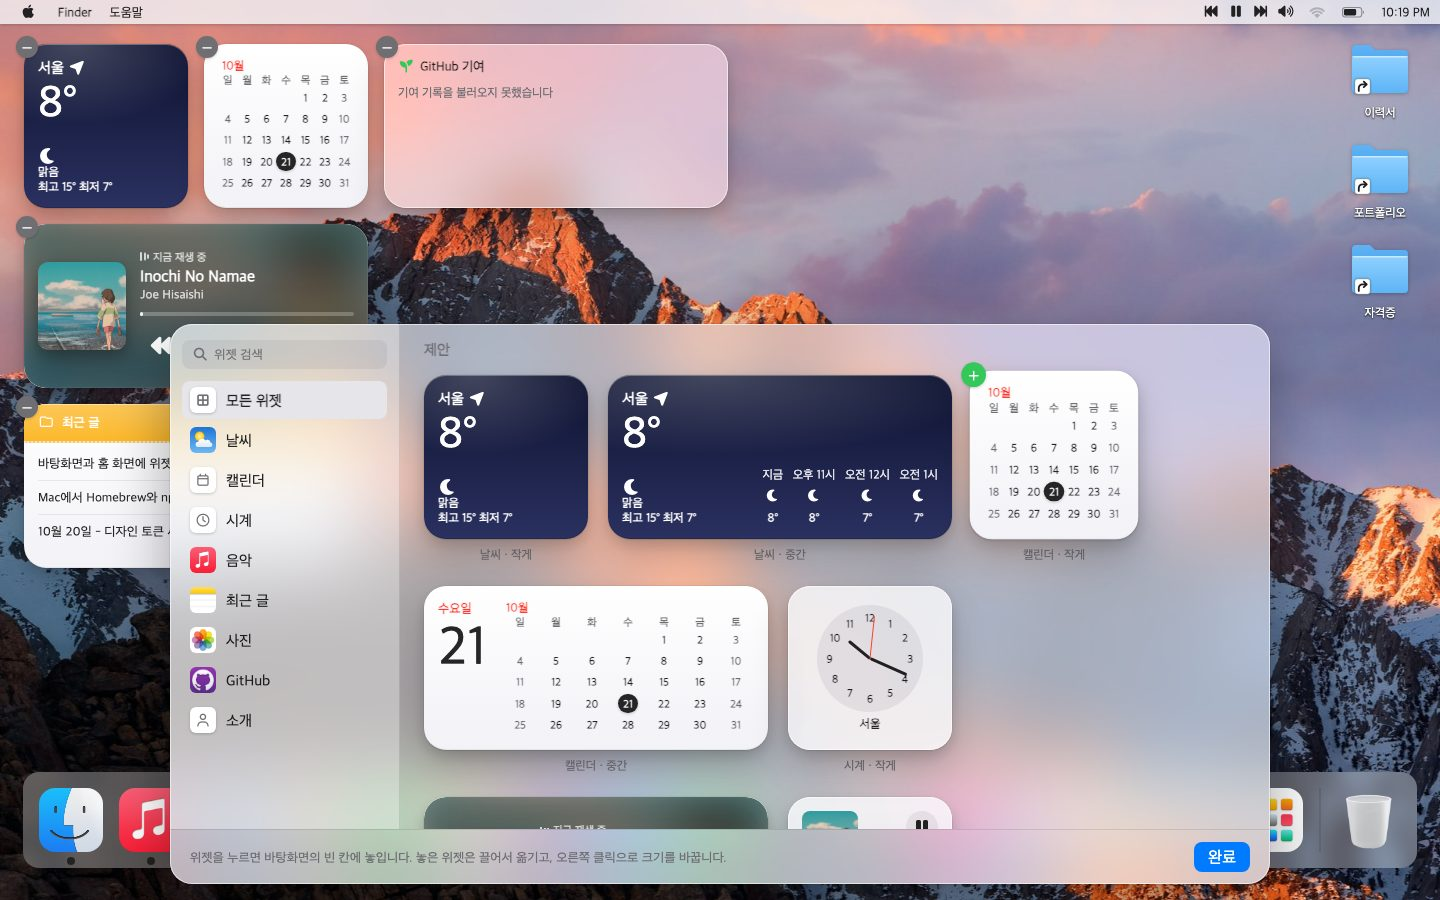
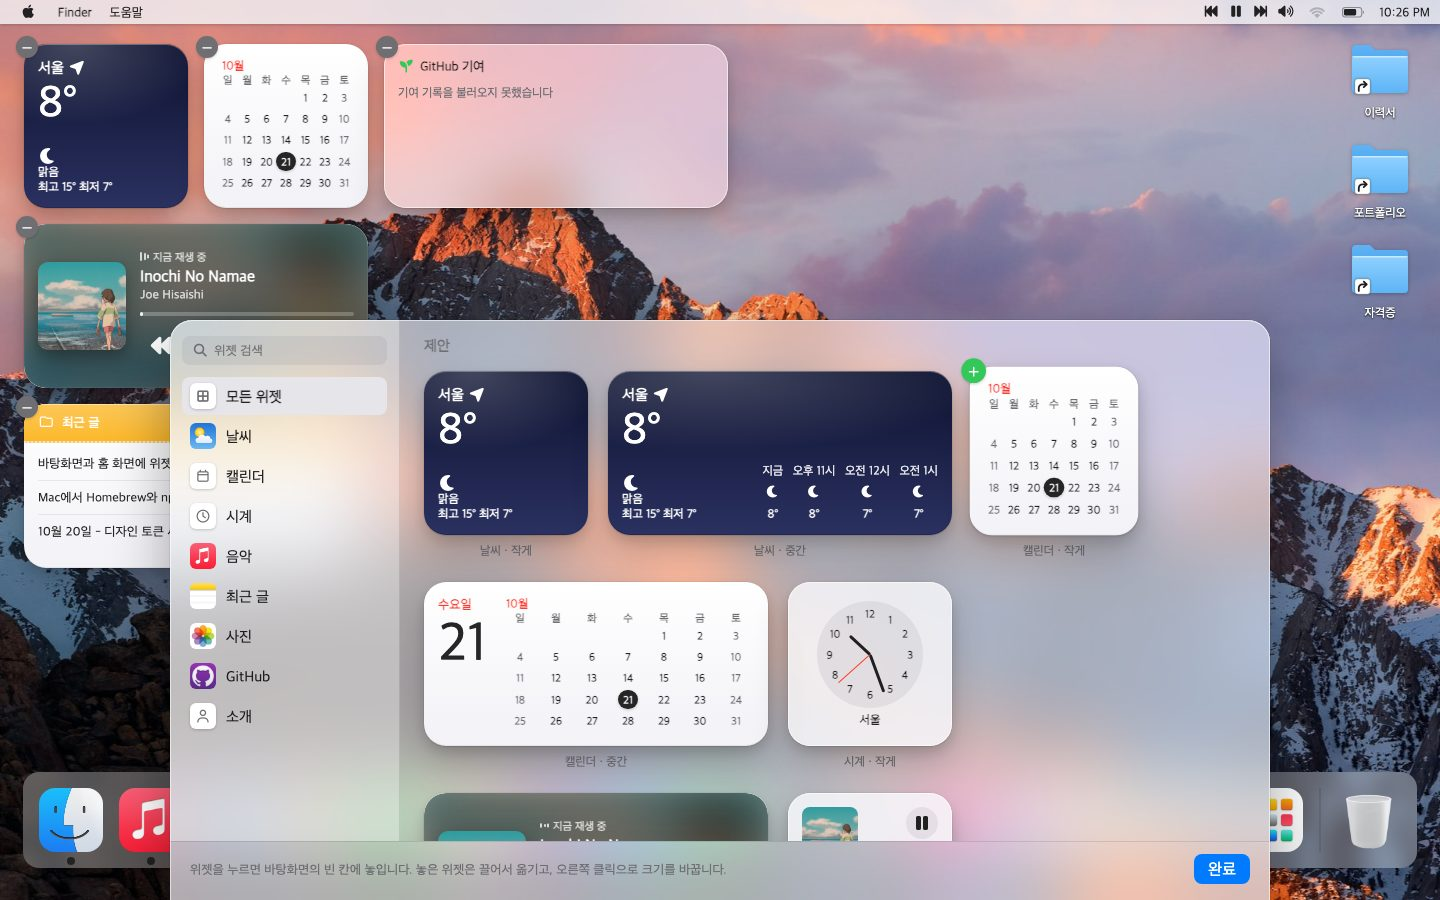
feat(desktop): 위젯 갤러리를 화면 아래 가장자리에 붙어 올라오는 시트로
아래 모서리는 각지게 화면 밖으로 잇고, 가장자리 빛은 위·양옆만. 열 때 아래에서 올라온다 (움직임 줄이기면 바로)

diff --git a/apps/react/src/desktop/widgets/WidgetGallery.css b/apps/react/src/desktop/widgets/WidgetGallery.css
@@ -1,28 +1,40 @@
 /*
- * 위젯 갤러리 (WidgetGallery): 화면 아래 가운데 떠 있는 유리 판 (macOS '위젯 편집…').
- * 왼쪽 사이드바(찾기·종류), 오른쪽 미리보기 격자, 아래 안내와 완료. 판이 Dock 위를 덮는다
+ * 위젯 갤러리 (WidgetGallery): 화면 아래 가장자리에 붙어 올라오는 유리 시트 (macOS '위젯 편집…').
+ * 위 두 모서리만 둥글고 아래는 화면 밖으로 이어진다. 왼쪽 사이드바(찾기·종류), 오른쪽 미리보기 격자, 아래 안내와 완료.
+ * 판이 Dock 위를 덮는다
  */
 .widget-gallery {
 	position: fixed;
 	left: 50%;
-	bottom: var(--space-16);
+	bottom: 0;
 	z-index: var(--z-widget-gallery);
 	display: grid;
 	grid-template-columns: 230px minmax(0, 1fr);
 	grid-template-rows: minmax(0, 1fr) auto;
 	box-sizing: border-box;
 	width: min(1100px, calc(100vw - 32px));
-	height: min(560px, calc(100vh - 120px));
+	height: min(580px, calc(100vh - 120px));
 	overflow: hidden;
-	border-radius: var(--radius-window);
+	border-radius: var(--radius-window) var(--radius-window) 0 0;
 	background-color: var(--widget-gallery-background);
 	-webkit-backdrop-filter: blur(40px) saturate(180%);
 	backdrop-filter: blur(40px) saturate(180%);
+	/* 가장자리 빛은 위와 양옆만 (아래는 화면 밖) */
 	box-shadow:
-		inset 0 0 0 1px var(--widget-edge),
+		inset 0 1px 0 var(--widget-edge),
+		inset 1px 0 0 var(--widget-edge),
+		inset -1px 0 0 var(--widget-edge),
 		var(--shadow-modal);
 	color: var(--color-label);
 	transform: translateX(-50%);
+	animation: widget-gallery-in var(--duration) var(--ease-out);
+}
+
+/* 화면 아래에서 올라온다 (가운데 맞춤의 translateX를 함께 적는다) */
+@keyframes widget-gallery-in {
+	from {
+		transform: translate(-50%, 100%);
+	}
 }
 
 /* ─── 사이드바 ─── */
@@ -234,7 +246,7 @@
 	display: flex;
 	align-items: center;
 	gap: var(--space-16);
-	padding: var(--space-12) var(--space-20);
+	padding: var(--space-12) var(--space-20) var(--space-16);
 	border-top: 1px solid var(--color-material-separator);
 }
 
